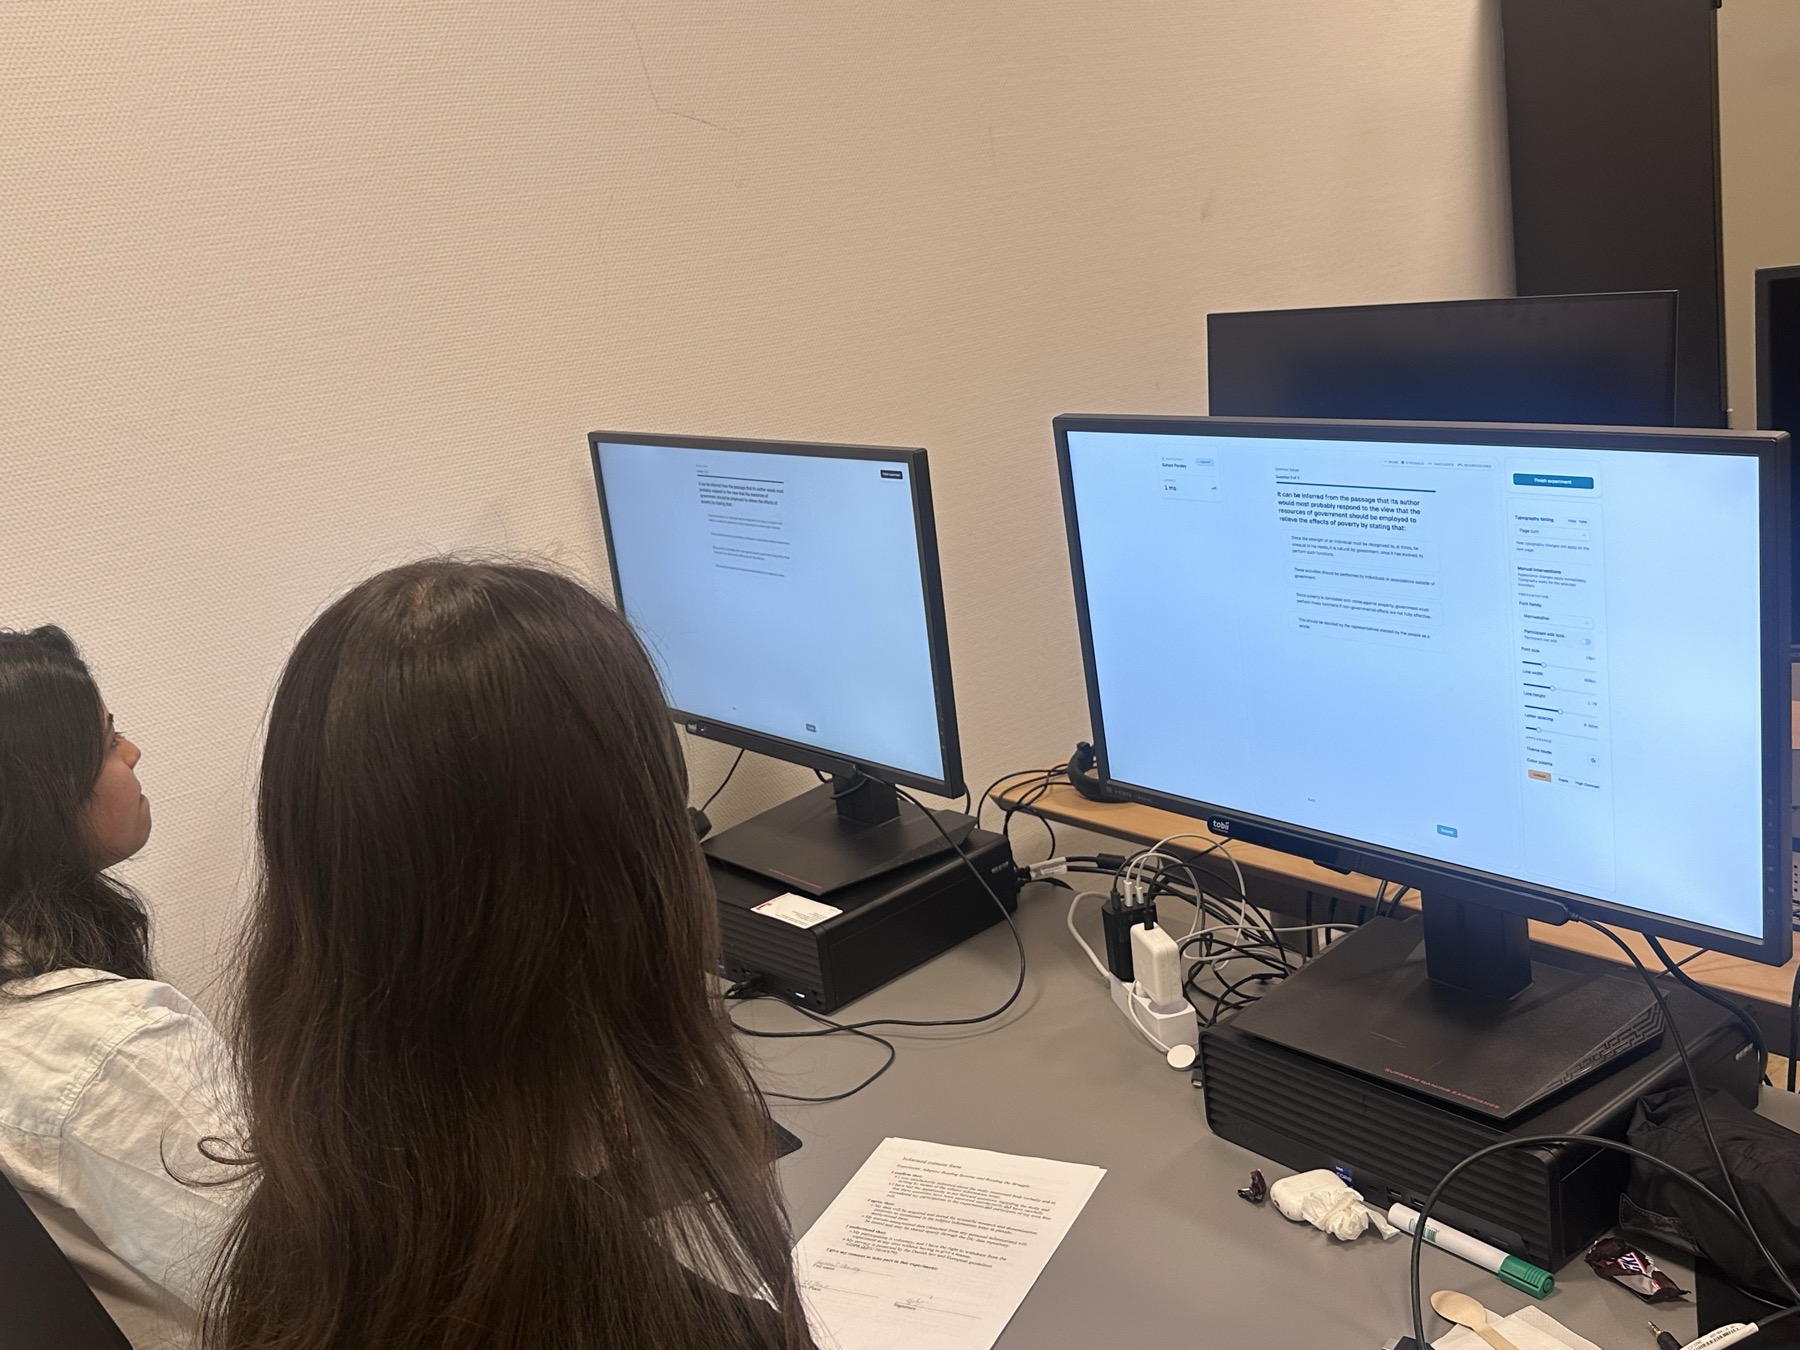
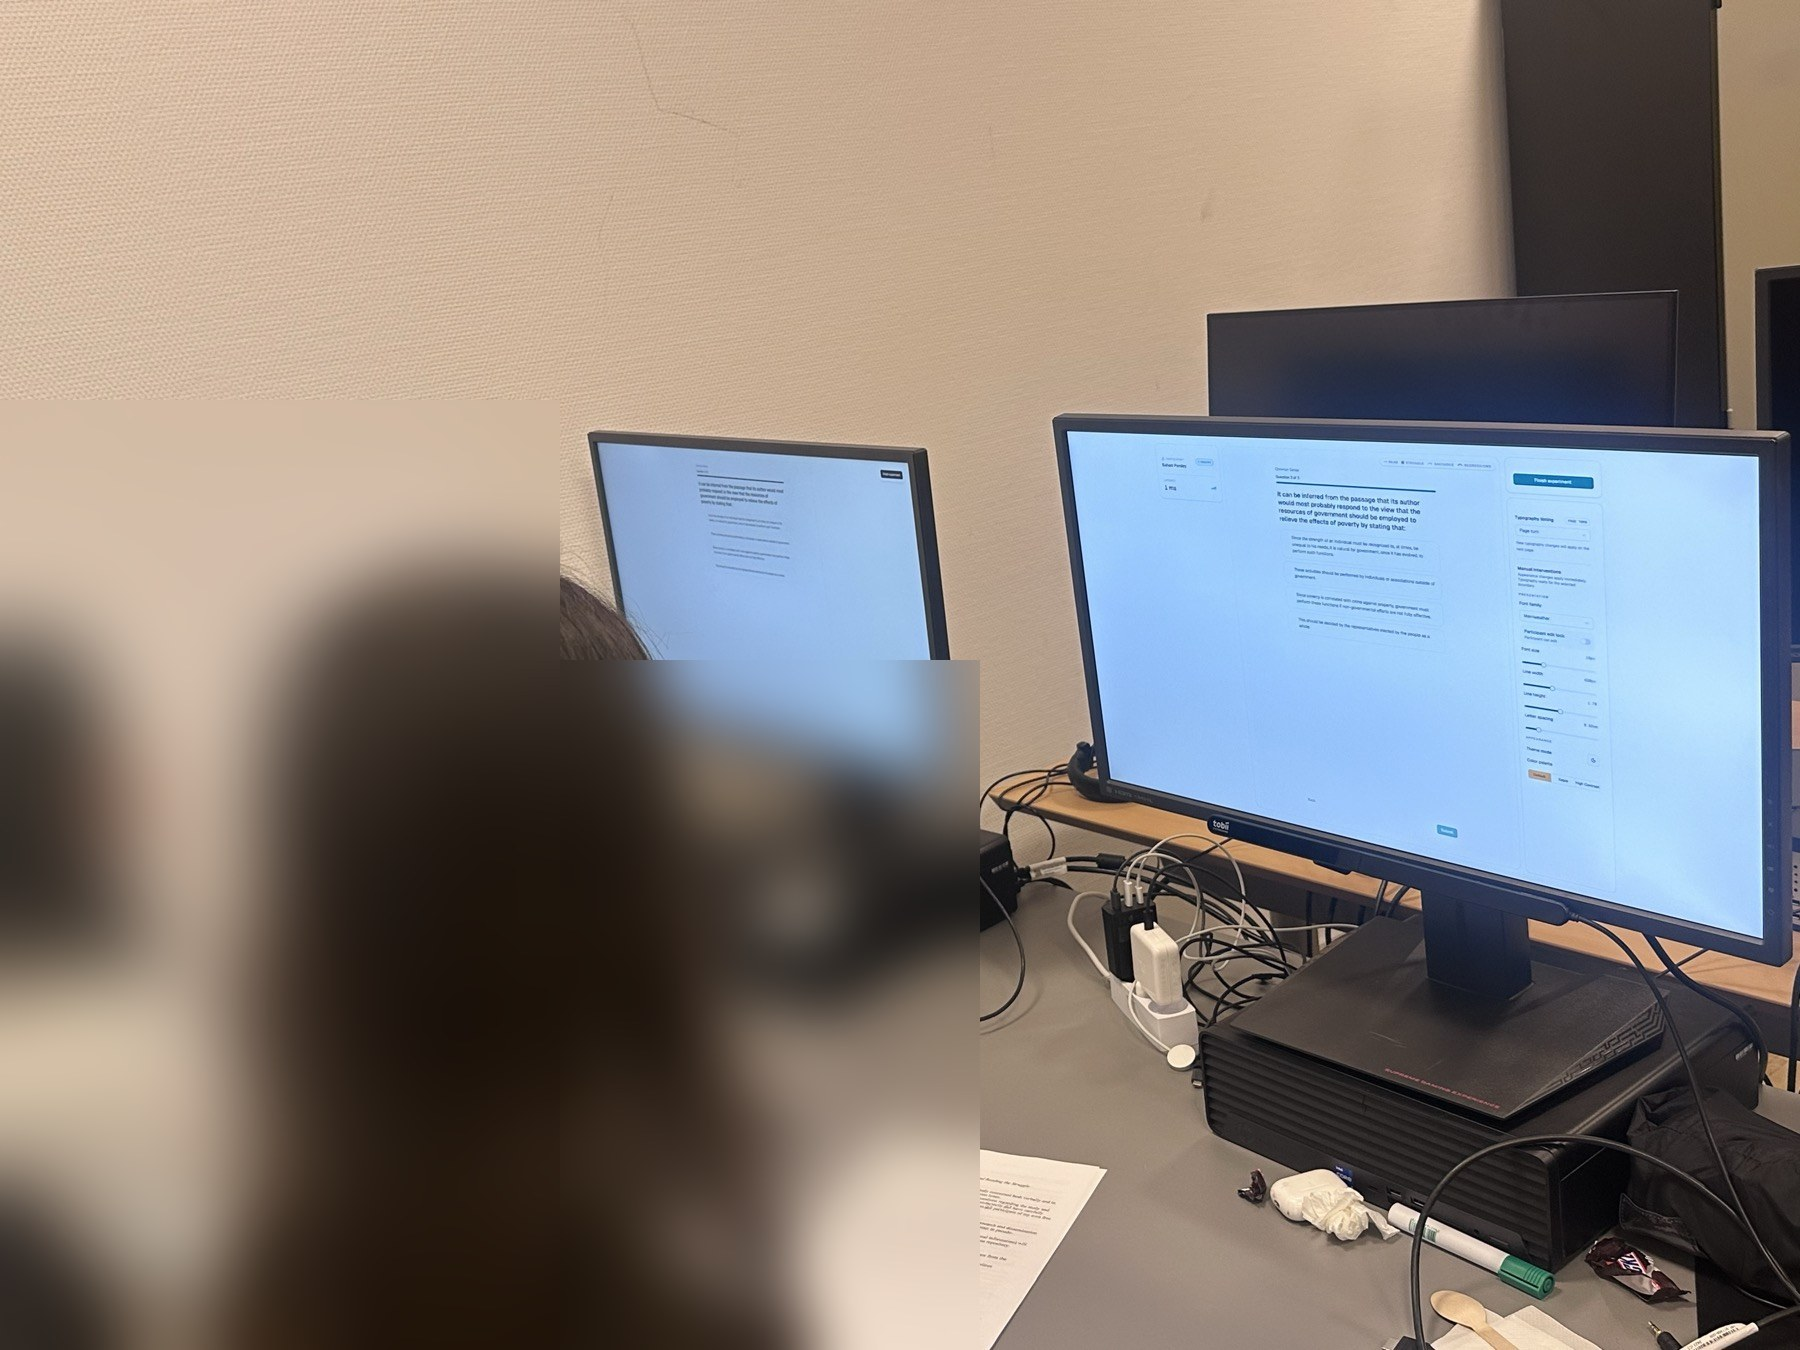
Enhance evaluation setup documentation and add experiment setup figure

Changed region(s): [[0.0, 0.3733, 0.3111, 1.0], [0.3422, 0.4667, 0.56, 1.0], [0.3111, 0.84, 0.3422, 0.8711]]

diff --git a/Master-Thesis-Report/Chapters/01_Introduction/01_motivation.tex b/Master-Thesis-Report/Chapters/01_Introduction/01_motivation.tex
@@ -15,7 +15,7 @@ A system that can interpret this stream and translate it into small, targeted ty
 This is the core premise of adaptive reading technology.
 
 This promise, however, carries an inherent risk.
-Fig.~\ref{fig:typo-intervention} shows the kind of typographic adaptation such a system applies, increasing size, spacing, and contrast to make a line easier to read.
+Fig.~\ref{fig:typo-intervention} shows the kind of typographic adaptation such a system applies, increasing font size, line height, and letter spacing to make a line easier to read.
 An adaptation like this can support a struggling reader, but the same change applied at the wrong moment, or too abruptly, can cost the reader their place and force them to start the line again.
 The central design challenge of adaptive reading is therefore not simply deciding what to change, but changing it in a way that supports the reader without disrupting the very reading flow the system is trying to protect.
 This tension between adaptation and continuity runs through every layer of the platform this thesis develops.
@@ -33,13 +33,13 @@ This tension between adaptation and continuity runs through every layer of the p
 % width held constant, the larger adapted type necessarily wraps onto MORE lines
 % than the default type, rather than fewer.
 \node[block, draw=black!15, fill=gray!5, text width=4.6cm,
-      font=\normalsize, text=black!72] (before)
-  {Reading should feel effortless, yet text that is small, tightly spaced, or low in contrast can slow a reader down and increase fatigue.};
+      font=\normalsize, text=black!80] (before)
+  {Reading should feel effortless, yet text that is small, tightly tracked, or densely lined can slow a reader down and increase fatigue.};
 \node[lbl, above=2.5mm of before] {Default typography};
 
 \node[block, draw=black!35, fill=blue!5, text width=4.6cm,
-      right=2.6cm of before, font=\large, text=black!92] (after)
-  {{\linespread{1.45}\selectfont Reading should feel effortless, yet text that is small, tightly spaced, or low in contrast can slow a reader down and increase fatigue.}};
+      right=2.6cm of before, font=\large, text=black!80] (after)
+  {{\linespread{1.6}\addfontfeature{LetterSpace=4.0}\selectfont Reading should feel effortless, yet text that is small, tightly tracked, or densely lined can slow a reader down and increase fatigue.}};
 \node[lbl, above=2.5mm of after] {Adapted typography};
 
 \draw[flow] (before.east) -- (after.west)
@@ -47,7 +47,7 @@ This tension between adaptation and continuity runs through every layer of the p
   {adaptive\\intervention};
 
 \end{tikzpicture}
-\caption{An adaptive reading intervention: increased font size, line spacing, and contrast for improved readability, balancing reading support against reading flow.}
+\caption{An adaptive reading intervention: increased font size, line height, and letter spacing for improved readability, balancing reading support against reading flow.}
 \label{fig:typo-intervention}
 \end{figure}
 

diff --git a/Master-Thesis-Report/Chapters/07_Evaluation/01_setup.tex b/Master-Thesis-Report/Chapters/07_Evaluation/01_setup.tex
@@ -8,6 +8,14 @@ The platform runs as a single-machine deployment: the backend and both browser s
 Four participants each read an expository Markdown article under two conditions, namely with and without the context-preserving restore enabled, giving eight sessions.
 \Cref{tab:eval-sessions} summarises them.
 All eight sessions used the eye tracker as the sensing source and applied typographic interventions manually through the researcher console; no automated decision strategy was active during these sessions, a point we return to in \cref{sec:eval-performance}.
+The physical two-screen arrangement is shown in \cref{fig:eval-rig}.
+
+\begin{figure}[htbp]
+\centering
+\includegraphics[width=0.82\linewidth]{Chapters/06_Implementation/experiment-setup.jpg}
+\caption{The two-screen experiment setup. The participant reads the presented text on one display (left), while the researcher monitors the mirrored view and applies interventions from the console on the other (right), which carries the typographic controls; the Tobii eye tracker is mounted at the foot of the participant's display, and both surfaces are served by one backend on a single host. The participants' faces are blurred for anonymity.}
+\label{fig:eval-rig}
+\end{figure}
 
 \begin{table}[htbp]
 \centering
